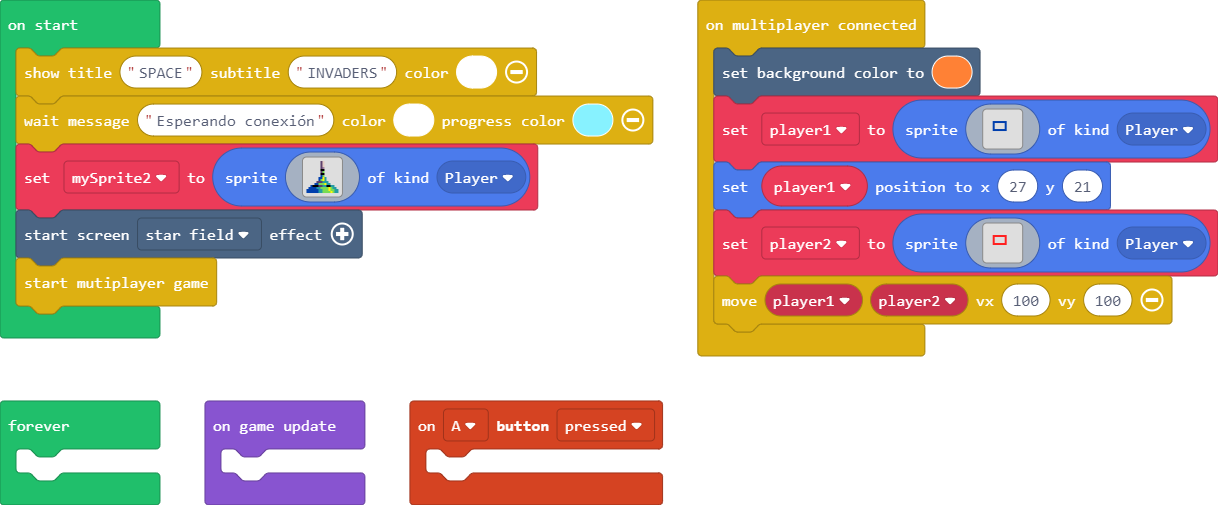
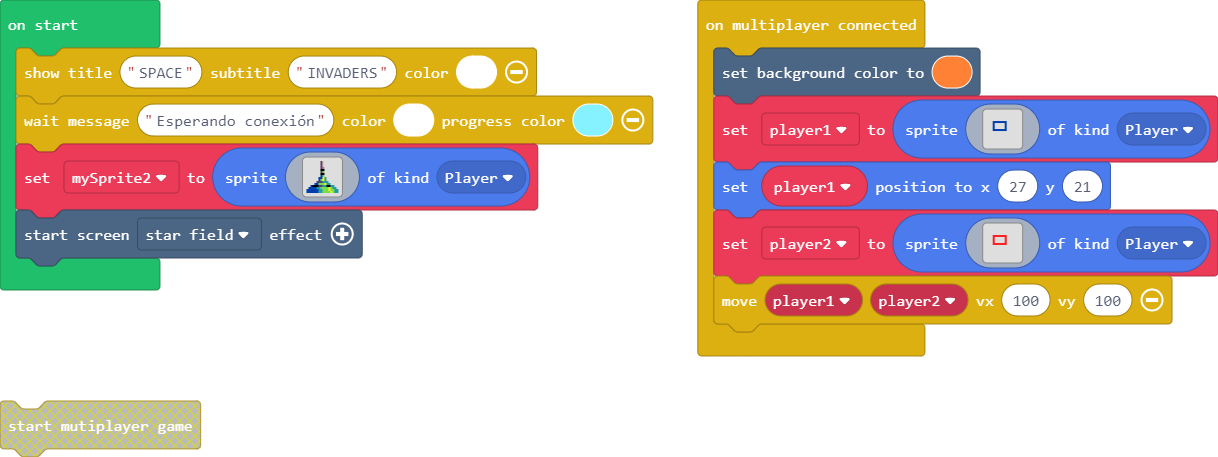
Update main.blocks, main.ts, multiplayer.ts

diff --git a/multiplayer.ts b/multiplayer.ts
@@ -13,7 +13,7 @@ namespace multiplayer {
         HudUpdate = 11
     }
 
-    const socket = multiplayer.Socket.getInstance();
+    const socket =  multiplayer.Socket.getInstance();
 
     enum ProgramState {
         Waiting = 0,
@@ -35,6 +35,8 @@ namespace multiplayer {
 
     let gameStarted = false;
 
+    let useHWMultiplayer = false;
+
     const dbFont = image.doubledFont(image.font8);
 
     let offset = 0;
@@ -45,8 +47,11 @@ namespace multiplayer {
     //% block="start mutiplayer game"
     //% sprite.shadow="variables_get" angleChange.defl=0
     export function multiPlayerStart():void {
+        
         jacdac.controllerService.stop();
+        useHWMultiplayer = true;
 
+       
        
        
     }
@@ -102,10 +107,8 @@ namespace multiplayer {
 
        if (isPlayerOne()) {
            controller.moveSprite(pl1, _vx, _vy);
-
        } else {
            controller.moveSprite(pl2, _vx, _vy);
-
        }
 
         
@@ -114,7 +117,15 @@ namespace multiplayer {
 
 
     game.onShade(function () {
-        waitForOtherPlayer();
+        if( useHWMultiplayer ){
+            waitForOtherPlayer();
+        }else{
+
+            if (!gameStarted){
+                 funcOnConnected();  
+                 gameStarted = true;
+            }
+        }
     })
 
     game.onUpdateInterval(100, () => {
@@ -256,6 +267,7 @@ enum SpriteKindLegacy {
 }
 
 function isPlayerOne() {
+    if( !useHWMultiplayer ) return true;
     return socket.session.playerNumber === 1;
 }
 }

diff --git a/main.ts b/main.ts
@@ -1,6 +1,3 @@
-controller.A.onEvent(ControllerButtonEvent.Pressed, function () {
-	
-})
 multiplayer.onConnected(function () {
     scene.setBackgroundColor(4)
     player1 = sprites.create(img`
@@ -65,10 +62,3 @@ let mySprite2 = sprites.create(img`
 8 8 8 8 8 8 6 6 7 7 7 7 5 7 6 6 
 `, SpriteKind.Player)
 effects.starField.startScreenEffect()
-multiplayer.multiPlayerStart()
-game.onUpdate(function () {
-	
-})
-forever(function () {
-	
-})
